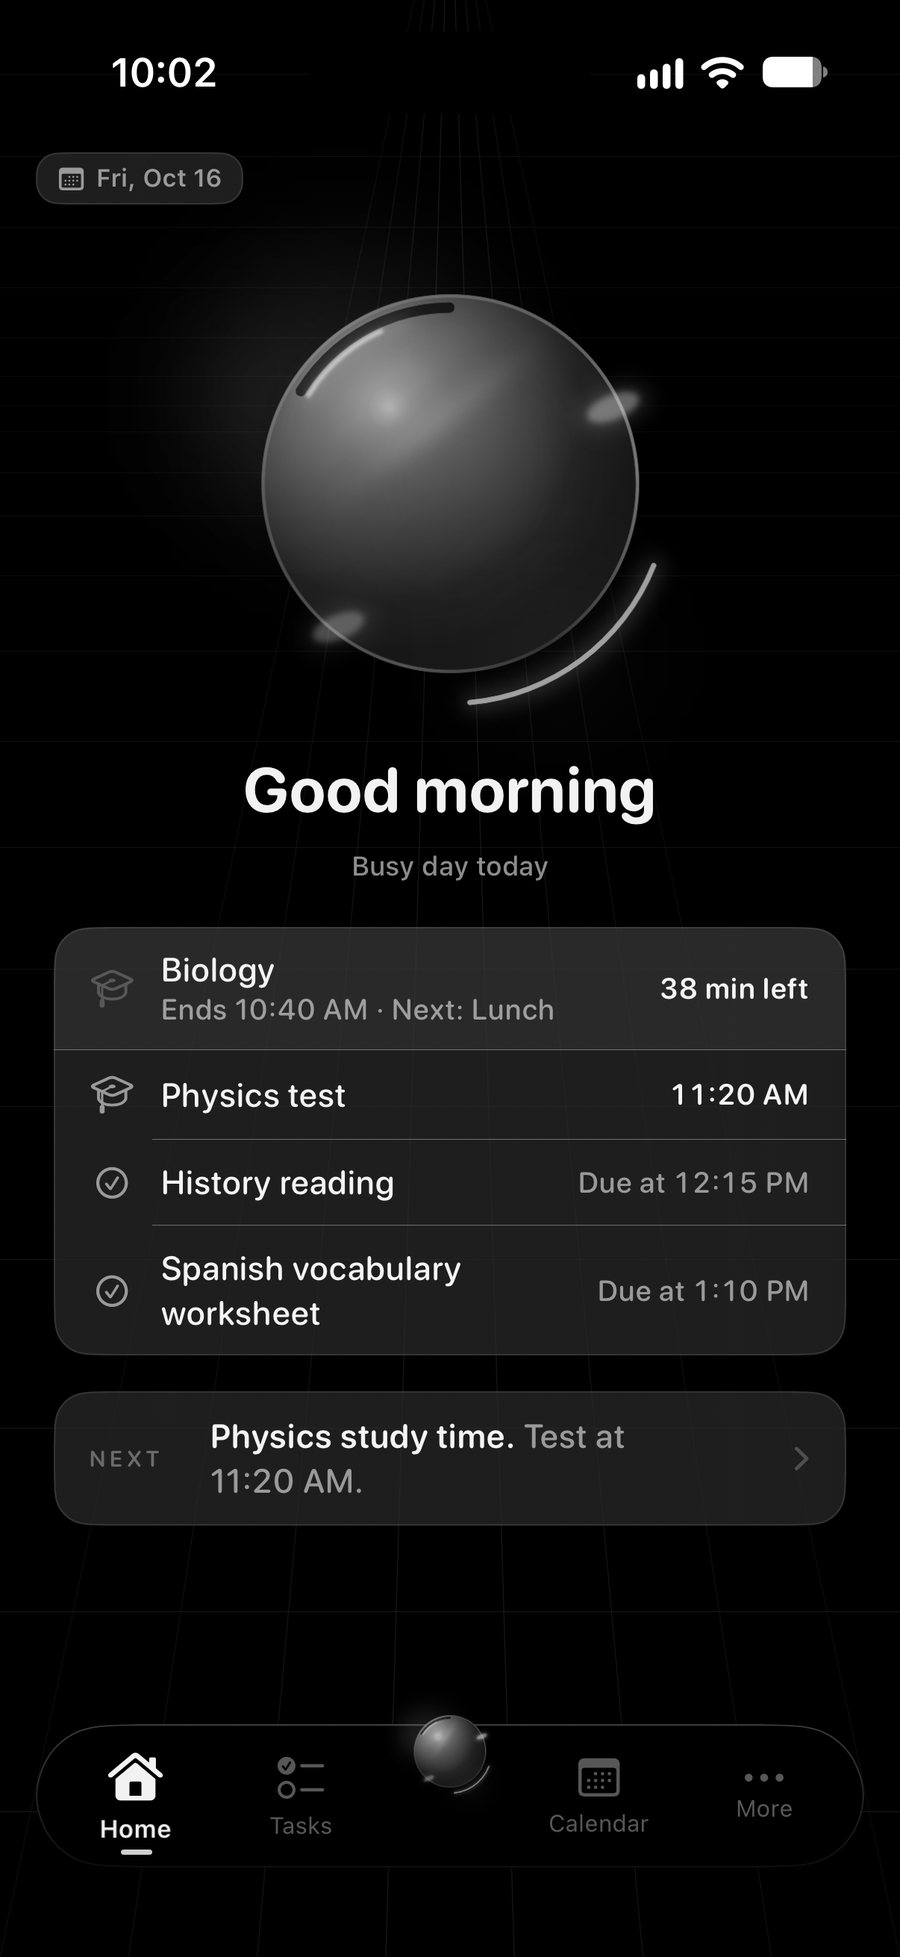
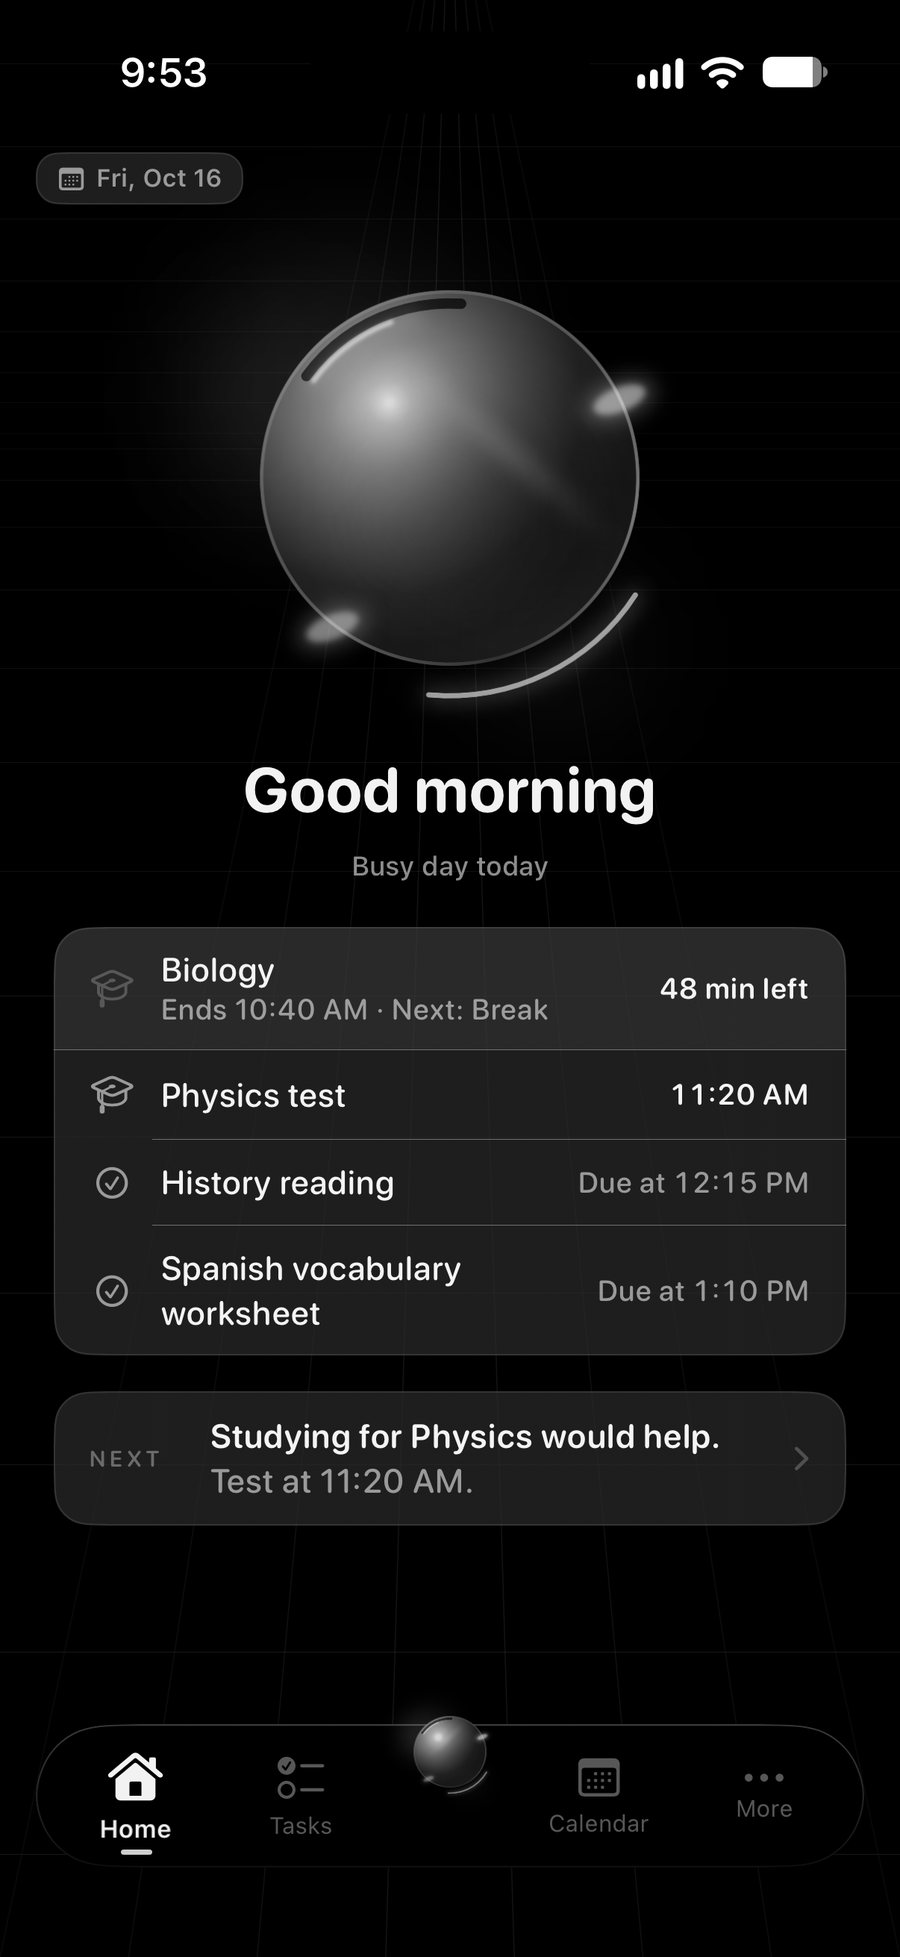
Screenshots: the 10:45 slot is a Break, as the app shows it

diff --git a/index.html b/index.html
@@ -173,7 +173,7 @@ footer a:hover{color:var(--text)}
       <h2>What’s happening now, and what’s next.</h2>
       <p class="body">Home shows the class you’re in and how many minutes are left, what’s due today, and the one thing worth doing next. Everything else stays out of the way.</p>
     </div>
-    <div class="art rv"><figure class="phone "><img src="screens/home.jpg" alt="Home screen showing Biology with 38 minutes left, then the Physics test and homework due today" width="900" height="1957" loading="lazy"></figure></div>
+    <div class="art rv"><figure class="phone "><img src="screens/home.jpg" alt="Home screen showing Biology with 48 minutes left and a break next, then the Physics test and homework due today" width="900" height="1957" loading="lazy"></figure></div>
   </div>
 </section>
 
@@ -209,7 +209,7 @@ footer a:hover{color:var(--text)}
       <h2>Your school day, built in.</h2>
       <p class="body">Enter your periods once. Home shows the class you’re in and how many minutes are left, and the School tab lists what comes next with your homework underneath. You’ll see it on the Lock Screen and in the Dynamic Island too, and half days and special schedules are covered.</p>
     </div>
-    <div class="art rv"><figure class="phone "><img src="screens/school.jpg" alt="School tab showing 3rd period Biology until 10:40 AM, the next class, the Physics test, and homework below" width="900" height="1957" loading="lazy"></figure></div>
+    <div class="art rv"><figure class="phone "><img src="screens/school.jpg" alt="School tab showing 3rd period Biology until 10:40 AM, a break next at 10:45 AM, the Physics test, and homework below" width="900" height="1957" loading="lazy"></figure></div>
   </div>
 </section>
 
